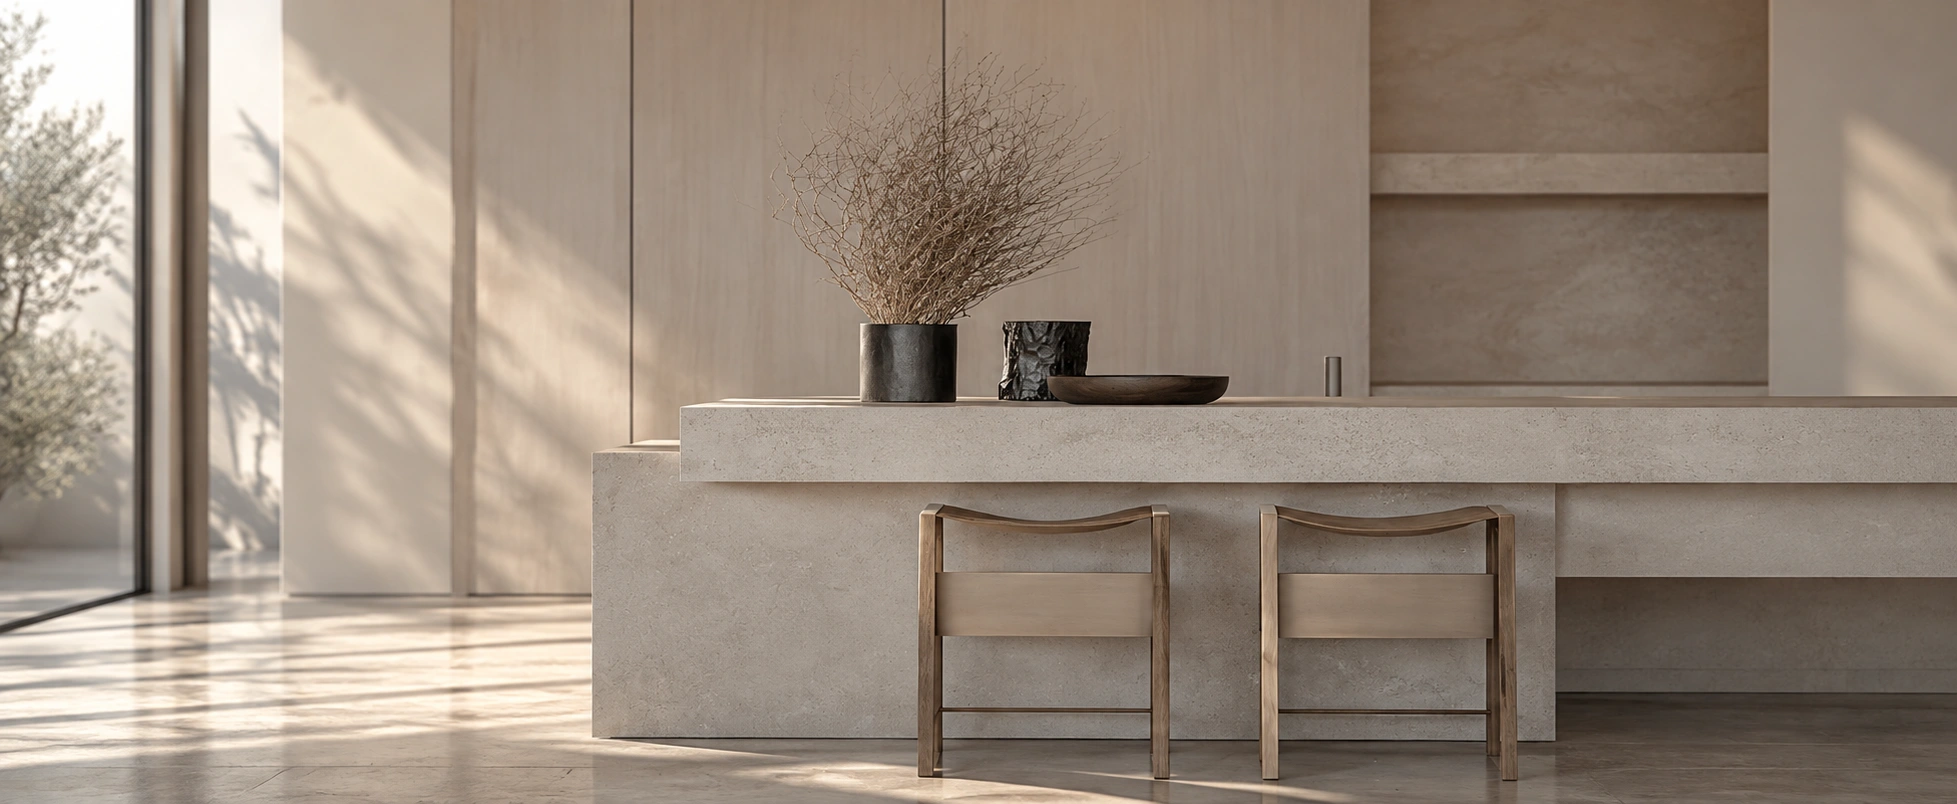
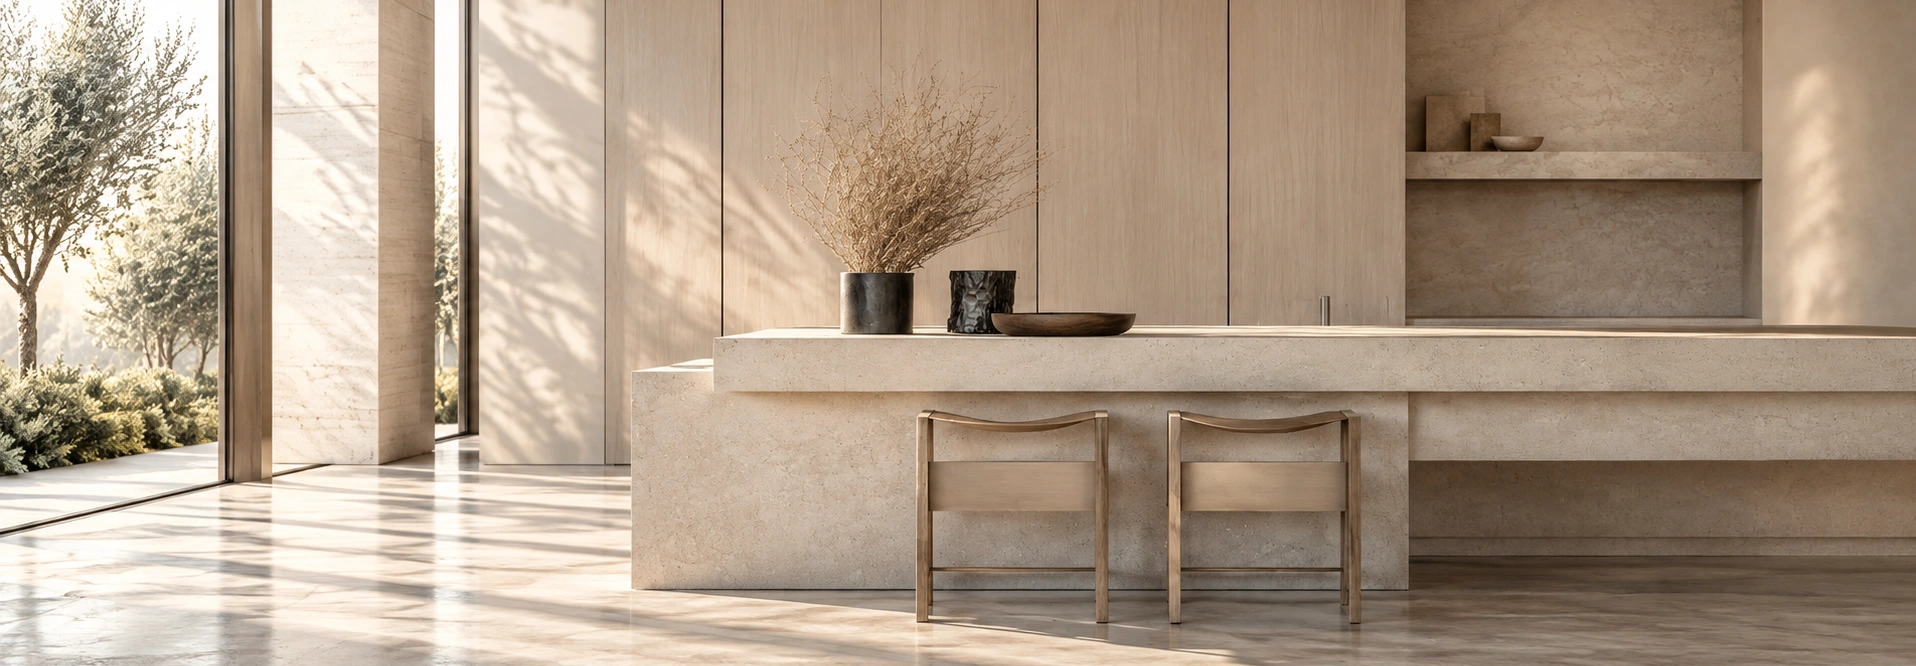
Hero: new kitchen picture, bigger titles
The Mediterranean kitchen picture replaces the first one. The three titles
are much larger (and their lines a little), with a stronger soft shade and
text shadow so they read on the brighter picture. MANAGE's arrow sits next
to its name; phones drop the small numbers to keep each title on one line.

diff --git a/css/home.css b/css/home.css
@@ -17,10 +17,11 @@
   position: absolute; inset: 0; width: 100%; height: 100%;
   object-fit: cover; object-position: 60% 78%;   /* crop from the top, keep the counter and stools */
 }
-/* A soft shade behind the light text, top and bottom only. */
+/* A soft shade behind the light text, top and bottom only (the picture is
+   bright, so the bottom one is fairly strong and reaches up behind the items). */
 .pf-hero::after {
   content: ""; position: absolute; inset: 0; pointer-events: none;
-  background: linear-gradient(to bottom, rgb(36 27 22 / 0.30) 0, transparent 24%, transparent 52%, rgb(36 27 22 / 0.52) 100%);
+  background: linear-gradient(to bottom, rgb(36 27 22 / 0.46) 0, rgb(36 27 22 / 0.12) 20%, transparent 32%, transparent 38%, rgb(36 27 22 / 0.42) 70%, rgb(36 27 22 / 0.62) 100%);
 }
 .pf-hero__top, .pf-hero__nav { position: absolute; z-index: 1; left: 0; right: 0; padding-inline: var(--sc-gutter); }
 .pf-hero__top {
@@ -34,7 +35,7 @@
 .pf-hero__place { font-size: 0.6rem; letter-spacing: 0.3em; text-transform: uppercase; opacity: 0.8; }
 .pf-hero__nav {
   bottom: 0; display: grid; grid-template-columns: repeat(3, minmax(0, 1fr));
-  gap: 1.5rem clamp(1.5rem, 3vw, 3.5rem); padding-bottom: clamp(2rem, 7vh, 4rem);
+  gap: 1.5rem clamp(1.5rem, 3vw, 3.5rem); padding-bottom: clamp(1.75rem, 6vh, 3.5rem);
 }
 /* Each item: a hairline that fills in on hover, name and number on one
    line, a short line of text under them. */
@@ -46,11 +47,19 @@
     linear-gradient(rgb(246 243 238 / 0.4), rgb(246 243 238 / 0.4)) 0 0 / 100% 1px no-repeat;
   transition: background-size 0.7s var(--sc-ease-out);
 }
-.pf-hero__name { font-size: 0.64rem; font-weight: 400; letter-spacing: 0.3em; text-transform: uppercase; white-space: nowrap; }
-.pf-hero__n { font-size: 0.6rem; letter-spacing: 0.2em; opacity: 0.7; }
+/* Client: the three titles bigger and easier to see. */
+.pf-hero__name {
+  font-size: clamp(1rem, 0.7rem + 0.6vw, 1.3rem); font-weight: 400; letter-spacing: 0.26em;
+  text-transform: uppercase; white-space: nowrap;
+  text-shadow: 0 1px 14px rgb(36 27 22 / 0.35);
+}
+.pf-hero__n { font-size: 0.68rem; letter-spacing: 0.2em; opacity: 0.8; white-space: nowrap; }
+.pf-hero__ext { font-size: 0.7em; letter-spacing: 0; opacity: 0.85; vertical-align: 0.15em; }
+.pf-hero__mark { font-size: 0.82rem; font-weight: 500; text-shadow: 0 1px 3px rgb(36 27 22 / 0.35), 0 1px 16px rgb(36 27 22 / 0.45); }
 .pf-hero__line {
   grid-column: 1 / -1; max-width: 21em;
-  font-size: 0.76rem; font-weight: 300; line-height: 1.75; letter-spacing: 0.03em; opacity: 0.78;
+  font-size: 0.84rem; font-weight: 400; line-height: 1.7; letter-spacing: 0.04em; opacity: 0.88;
+  text-shadow: 0 1px 10px rgb(36 27 22 / 0.35);
   transition: opacity 0.5s var(--sc-ease-out);
 }
 .pf-hero__nav a:hover { background-size: 100% 1px, 100% 1px; }
@@ -60,8 +69,9 @@
   .pf-hero { height: 44svh; min-height: 21rem; margin-bottom: 0; }
   .pf-hero__place { display: none; }
   .pf-hero__nav { gap: 1.4rem 1rem; padding-bottom: 1.75rem; }
-  .pf-hero__line { font-size: 0.68rem; line-height: 1.6; }
-  .pf-hero__name { font-size: 0.58rem; letter-spacing: 0.24em; }
+  .pf-hero__line { font-size: 0.7rem; line-height: 1.55; }
+  .pf-hero__name { font-size: 0.78rem; letter-spacing: 0.2em; }
+  .pf-hero__n { display: none; }                  /* no room for the numbers */
 }
 /* The fixed header waits until the hero has scrolled away. */
 .site-bar { transition: opacity 0.6s ease, transform 0.7s var(--sc-ease-out); }

diff --git a/index.html b/index.html
@@ -74,7 +74,7 @@
        packages on it. The fixed header stays hidden while this is on screen
        (html.hero-on, js/home.js), so the two never show at once. -->
   <section class="pf-hero" aria-label="BLK Remodelling: four packages">
-    <img class="pf-hero__img" src="assets/img/hero-kitchen.webp" width="1957" height="804" alt="" fetchpriority="high">
+    <img class="pf-hero__img" src="assets/img/hero-kitchen.webp" width="1916" height="666" alt="" fetchpriority="high">
     <div class="pf-hero__top">
       <a class="pf-hero__mark" href="#top">BLK<span>·</span>REMODELLING</a>
       <span class="pf-hero__place">Ras Al Khaimah · UAE</span>
@@ -86,7 +86,7 @@
       <a href="#pkg-2"><span class="pf-hero__name">Remodel</span><span class="pf-hero__n">02</span><span class="pf-hero__line">Renovation &amp; transformation</span></a>
       <!-- TODO: the property management site's address (client to send); then add
            target="_blank" rel="noopener" so it opens in a new tab. -->
-      <a href="#" data-todo="manage-url"><span class="pf-hero__name">Manage</span><span class="pf-hero__n">03 <span aria-hidden="true">&nearr;</span></span><span class="pf-hero__line">Property management</span></a>
+      <a href="#" data-todo="manage-url"><span class="pf-hero__name">Manage <span class="pf-hero__ext" aria-hidden="true">&nearr;</span></span><span class="pf-hero__n">03</span><span class="pf-hero__line">Property management</span></a>
     </nav>
   </section>
 

diff --git a/CLAUDE.md b/CLAUDE.md
@@ -264,7 +264,7 @@ Source videos (outside the project):
 ## 3r. Hero image band above the packages (2026-10-04)
 
 - Client (ref: a services page whose menu sits on an image band): `section.pf-hero` at the top of `<main>`, before
-  `.pf-room-track`. Picture `assets/img/hero-kitchen.webp` (Downloads\"Sunlit Minimalist Stone Kitchen Interior.png",
+  `.pf-room-track`. Picture `assets/img/hero-kitchen.webp` (since 2026-10-04 Downloads\"Sunlit Mediterranean Kitchen Sanctuary.png", 1916×666, 305 KB; first version was "...Stone Kitchen Interior.png",
   1957×804, Chrome-encoded q0.94, 249 KB; cropped from the top, `object-position: 60% 78%`). On it: logo + "Ras Al Khaimah · UAE" at the top, the four packages along
   the bottom (`.pf-hero__nav`; since 2026-10-04 three items, 3 columns also on phones: FURNISH 01 "Furnishing & styling" → #pkg-1, REMODEL 02 "Renovation & transformation" → #pkg-2, MANAGE 03 ↗ "Property management" → the property management site, **href is a placeholder `#` (data-todo="manage-url"), waiting for the address**; hairline that fills in on hover). Desktop
   height `clamp(18rem, 48svh, 36vw)` (client: shorter, twice), phone 44svh (min 21rem); small gap below it on desktop, none on phones. On phones the room layer's empty text zone then shows below the hero until package text appears (open question to the client).
